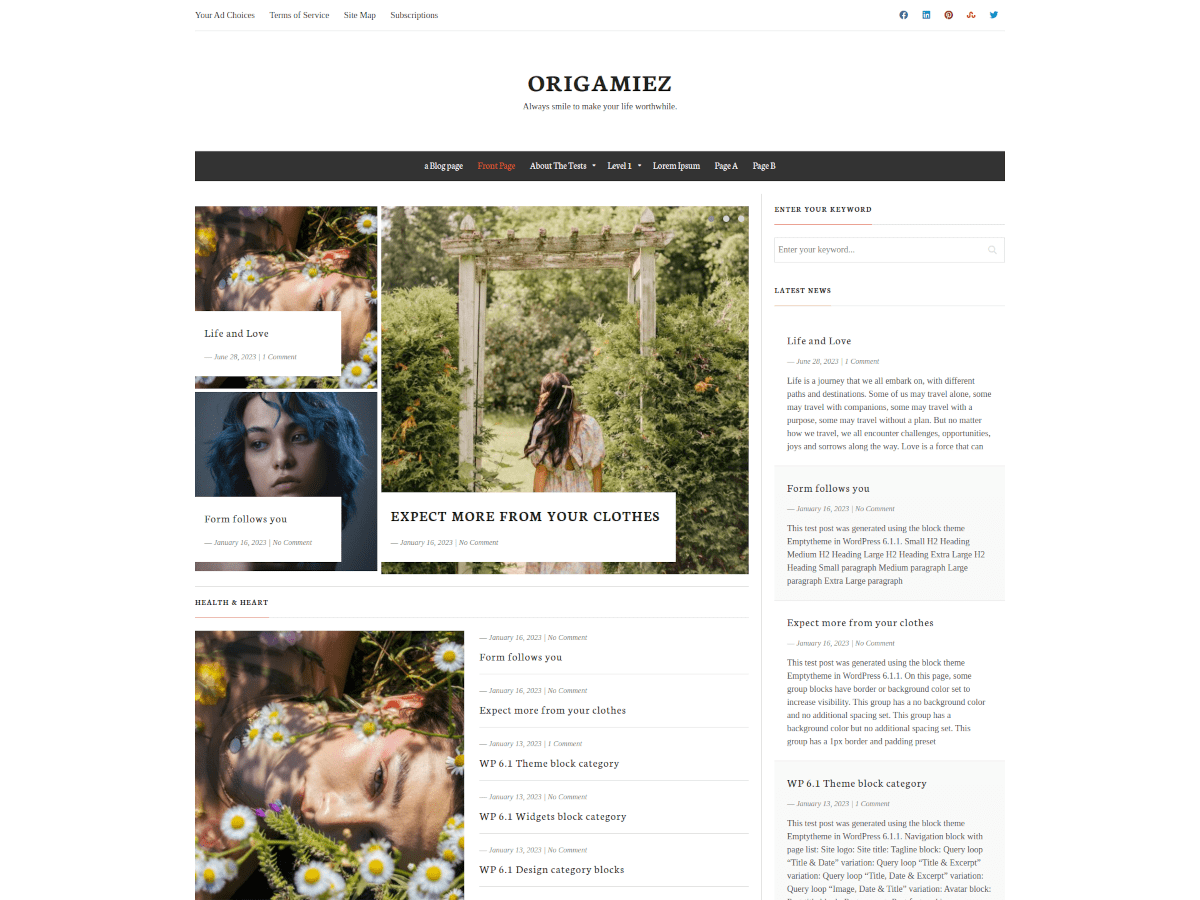
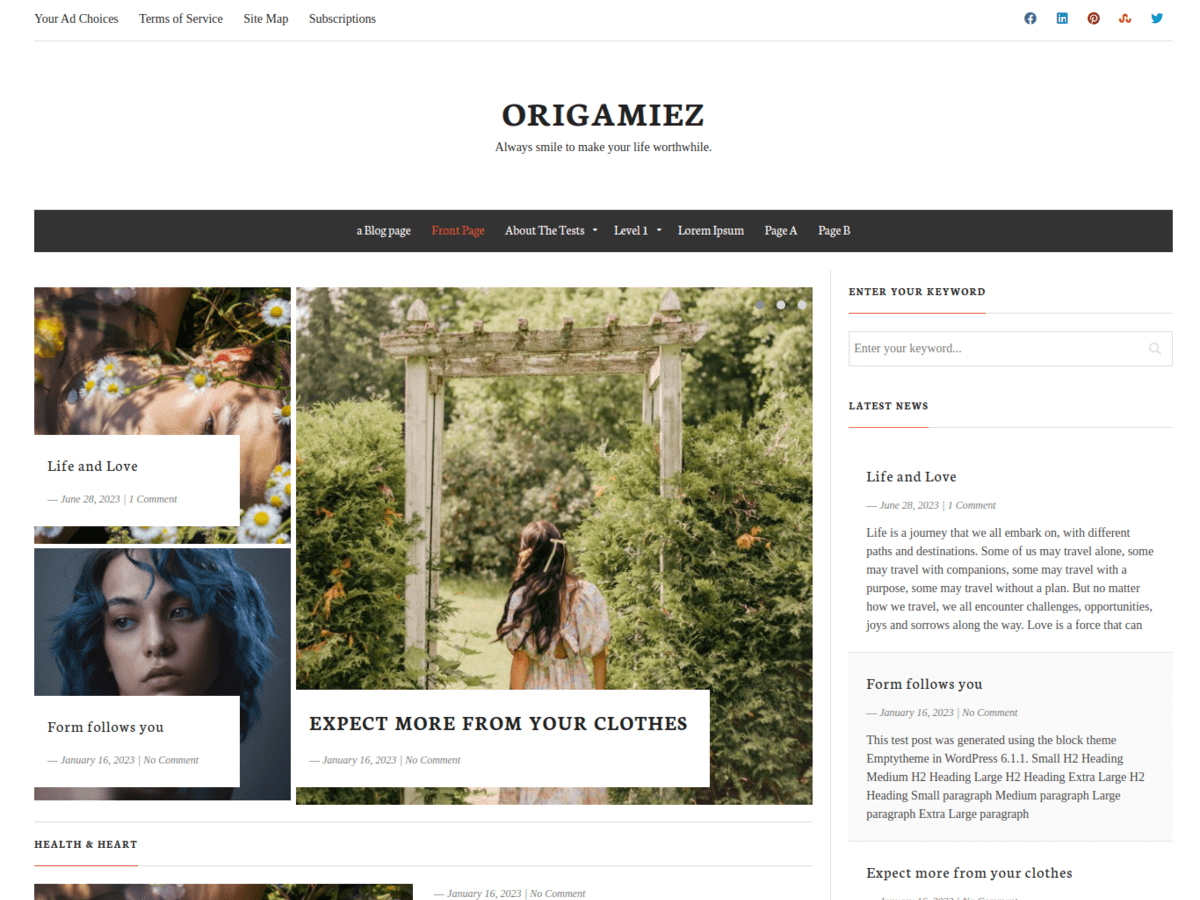
release v2.2.0
Former-commit-id: 1002e0b201933531d618ed6edc2d8dc178b02852

diff --git a/origamiez/style.css b/origamiez/style.css
@@ -1,10 +1,10 @@
 /**
  * Theme Name: Origamiez
- * Theme URI: http://colourstheme.com/help-center/question-category/origamiez/
- * Author: Colours Theme
- * Author URI: http://colourstheme.com
+ * Theme URI: https://github.com/tranthethang/origamiez
+ * Author: openwpdotorg
+ * Author URI: http://openwp.org
  * Description: Origamiez theme is designed for magazine, newspaper, and forum with flexible layout.
- * Version: 2.1.1692465025
+ * Version: 2.2.0
  * License: GNU General Public License v3
  * License URI: http://www.gnu.org/licenses/gpl-3.0.html
  * Text Domain: origamiez
@@ -2324,4 +2324,9 @@ nav#origamiez-mobile-nav.is-active {
 
 .origamiez-readmore-button {
   text-decoration: underline !important;
+}
+
+.origamiez-widget-posts-slider .col-left.col-sm-4 > div {
+  height: 100%;
+  aspect-ratio: 1/2;
 }

diff --git a/style.scss b/style.scss
@@ -1,8 +1,8 @@
 /**
  * Theme Name: Origamiez
- * Theme URI: http://colourstheme.com/help-center/question-category/origamiez/
- * Author: Colours Theme
- * Author URI: http://colourstheme.com
+ * Theme URI: https://github.com/tranthethang/origamiez
+ * Author: openwpdotorg
+ * Author URI: http://openwp.org
  * Description: Origamiez theme is designed for magazine, newspaper, and forum with flexible layout.
  * Version: STYLE_VERSION
  * License: GNU General Public License v3

diff --git a/webpack.mix.js b/webpack.mix.js
@@ -10,7 +10,8 @@ mix
                 loader: "string-replace-loader",
                 options: {
                     search: "STYLE_VERSION",
-                    replace: `2.1.${Math.floor(Date.now() / 1000)}`,
+                    // replace: `2.2.${Math.floor(Date.now() / 1000)}`,
+                    replace: `2.2.0`,
                 },
             },
             {

diff --git a/assets/sass/patches/_update-20230808.scss b/assets/sass/patches/_update-20230808.scss
@@ -54,3 +54,10 @@ nav#origamiez-mobile-nav {
 .origamiez-readmore-button {
   text-decoration: underline !important;
 }
+
+.origamiez-widget-posts-slider {
+  .col-left.col-sm-4 > div {
+    height: 100%;
+    aspect-ratio: 1/2;
+  }
+}
